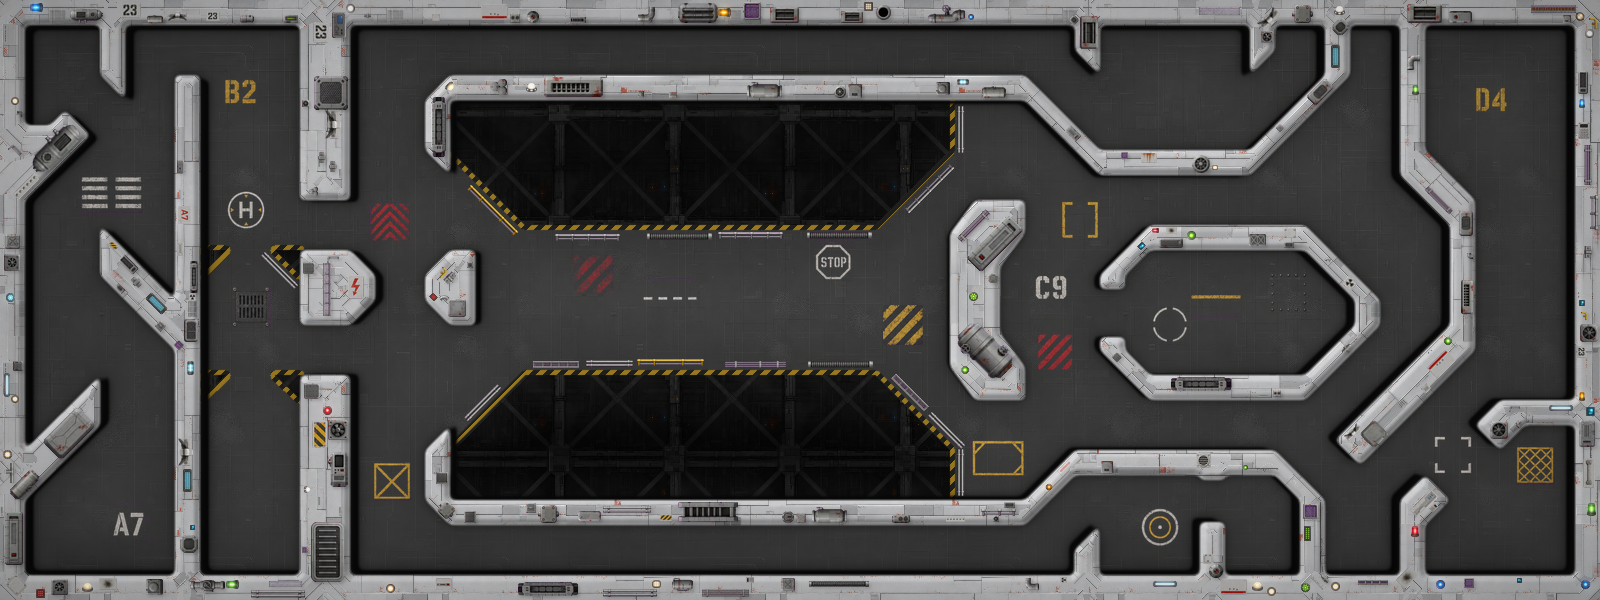
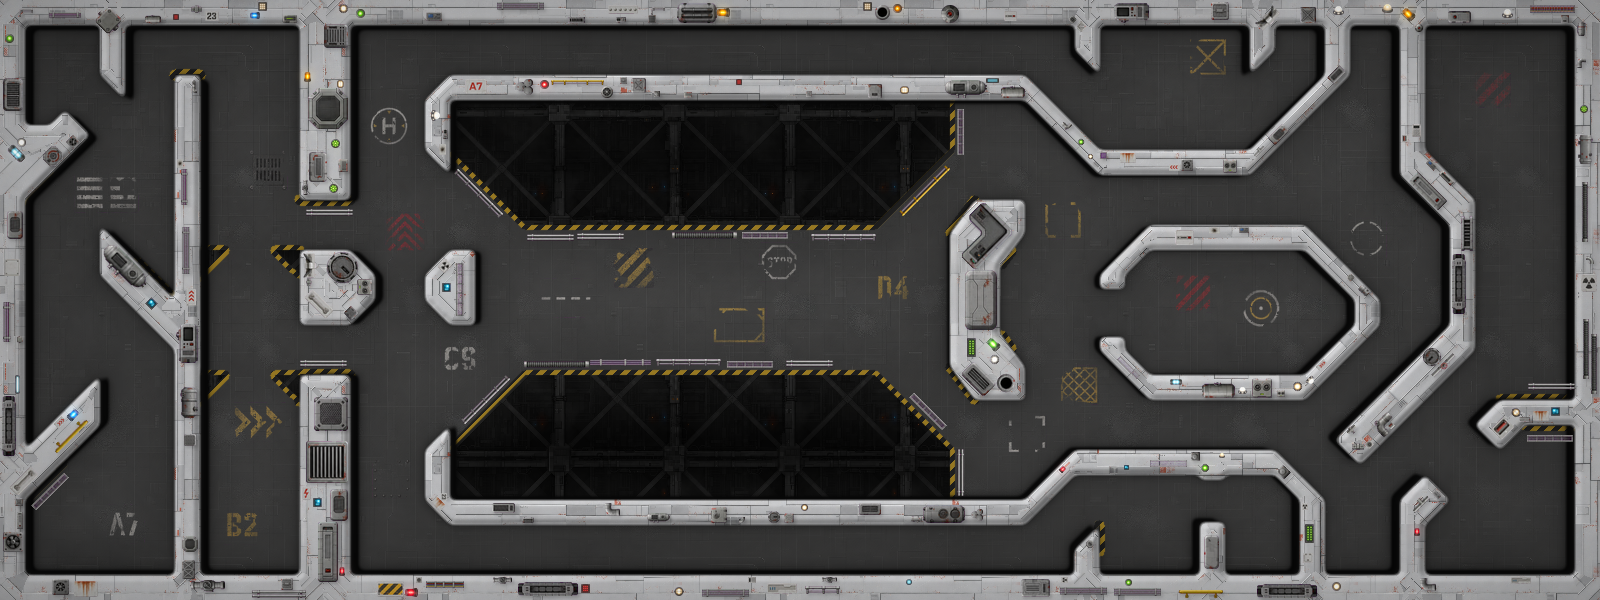
Bridge art: worn floor paint that soaks into the floor
Floor paint was pasted at full opacity and looked stuck on. It now takes
the floor's own shading and grain, is worn through by a chip/scuff/speckle
mask (its own random stream, so placements don't move) and goes down at
75% opacity, closer to the markings in backgrounds 0-2. Re-baked the Bridge.

Claude-Session: https://claude.ai/code/session_01H47hBDPQBM8s5zFvCsXCoj

diff --git a/tools/art/assemble_bridge.py b/tools/art/assemble_bridge.py
@@ -156,14 +156,44 @@ if os.path.exists(os.path.join(DECOR, 'index.json')):
         sp = sp.resize((max(2, int(w * s)), max(2, int(h * s))), Image.LANCZOS)
         return sp.rotate(np.degrees(-ang), resample=Image.BICUBIC, expand=True)
 
-    def place(sp, cx, cy, surface, cast=0.0, glow=0.0):
+    wear_rng = np.random.default_rng(7)  # its own stream, so wear never moves the placements
+
+    def worn(h, w):
+        # wear mask for painted markings, 1 = paint intact: big chipped-off blotches, scuffs
+        # and fine speckle, from blurred noise at three scales (like the original floors)
+        n = lambda s: (lambda z: (z - z.mean()) / (z.std() + 1e-6))(blur(wear_rng.random((h, w)), s))
+        chips = np.clip((n(5) + 0.5 * n(2) + 1.0) * 2.5, 0, 1)         # large holes, crisp edges
+        scuff = np.clip(1 - 0.3 * np.clip(n(12) + 0.3, 0, 2), 0.55, 1)   # broad faded areas
+        speck = np.clip((n(0.7) + 2.0) * 1.5, 0, 1)                    # pinholes
+        return chips * scuff * speck
+
+    def paint(sp, x0, y0, opacity=0.75):
+        # floor paint: soaked into the floor rather than pasted on. The floor's own light and
+        # grain show through (the paint takes the floor's shading), it is worn through in
+        # places, and laid at partial opacity, like the markings in backgrounds 0-2
+        rgba = np.array(sp, np.float32) / 255
+        h, w = rgba.shape[:2]
+        base = np.array(canvas, np.float32)[y0:y0 + h, x0:x0 + w] / 255
+        col = rgba[..., :3]
+        lum = col.mean(-1, keepdims=True)
+        col = lum + (col - lum) * 0.8                                   # a little desaturated
+        floor_l = base[..., :3].mean(-1, keepdims=True)
+        shade = floor_l / (blur(floor_l[..., 0], 6)[..., None] + 1e-3)  # the floor's grain and panel lines
+        col = np.clip(col * np.clip(shade, 0.6, 1.3) * 0.9, 0, 1)
+        a = (rgba[..., 3] * worn(h, w) * opacity)[..., None]
+        base[..., :3] = base[..., :3] * (1 - a) + col * a
+        region = Image.fromarray((np.clip(base, 0, 1) * 255 + 0.5).astype(np.uint8), 'RGBA')
+        canvas.paste(region, (x0, y0))
+
+    def place(sp, cx, cy, surface, cast=0.0, glow=0.0, painted=False):
         w, h = sp.size
         x0, y0 = int(cx - w / 2), int(cy - h / 2)
         if x0 < 0 or y0 < 0 or x0 + w > W or y0 + h > H: return False
         a = np.array(sp)[..., 3] > 40
         if not surface[y0:y0 + h, x0:x0 + w][a].all() or used[y0:y0 + h, x0:x0 + w][a].any(): return False
         used[y0:y0 + h, x0:x0 + w] |= ndi.binary_dilation(a, iterations=2)
-        canvas.alpha_composite(sp, (x0, y0))
+        if painted: paint(sp, x0, y0)
+        else: canvas.alpha_composite(sp, (x0, y0))
         if cast: shadow[y0:y0 + h, x0:x0 + w] += cast * a
         if glow:
             rgb_ = np.array(sp, np.float32)[..., :3] / 255
@@ -171,7 +201,7 @@ if os.path.exists(os.path.join(DECOR, 'index.json')):
             bloom[y0:y0 + h, x0:x0 + w] += glow * hot[..., None] * rgb_
         return True
 
-    def scatter(cat, count, surface, short, long_max, tries=4000, cast=0.0, glow=0.0, along=True, orient=None, min_aspect=0, unique=False):
+    def scatter(cat, count, surface, short, long_max, tries=4000, cast=0.0, glow=0.0, along=True, orient=None, min_aspect=0, unique=False, painted=False):
         lst = [sp for sp in sprites.get(cat) or [] if max(sp.size) >= min_aspect * min(sp.size)]
         if not lst: return 0
         pts = np.argwhere(surface)
@@ -184,7 +214,7 @@ if os.path.exists(os.path.join(DECOR, 'index.json')):
             if s_ < 5: continue
             k = rng.integers(len(lst))
             sp = fit(lst[k], s_, long_max, ang, upright=not along)
-            if place(sp, cx, cy, surface, cast, glow):
+            if place(sp, cx, cy, surface, cast, glow, painted):
                 n += 1
                 if unique: lst.pop(k)
                 if not lst: break
@@ -193,7 +223,7 @@ if os.path.exists(os.path.join(DECOR, 'index.json')):
     wall_w = lambda cy, cx: 2 * wdist[cy, cx] - 4          # sprite thickness to fit the wall here
     sprites['greebles'] = sprites.get('greebles', []) + sprites.get('greebles2', [])
     # floor paint first (it sits under everything else), then wall decor, big to small
-    print('floorpaint', scatter('floorpaint', 22, floor_ok, 40, 80, along=False, unique=True))
+    print('floorpaint', scatter('floorpaint', 22, floor_ok, 40, 80, along=False, unique=True, painted=True))
     cd_ = ndi.distance_transform_edt(~chasmb).astype(np.float32)
     ly, lx = np.gradient(blur(cd_, 3))
     q_lip = ndi.median_filter(np.round((np.arctan2(ly, lx) + np.pi / 2) / (np.pi / 4)).astype(int) % 4, 5)
